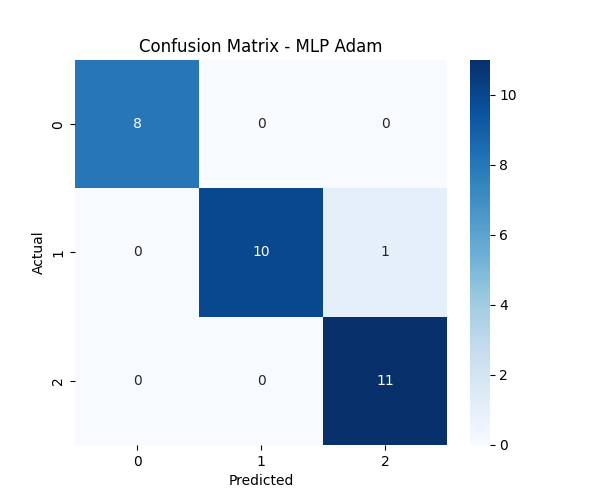
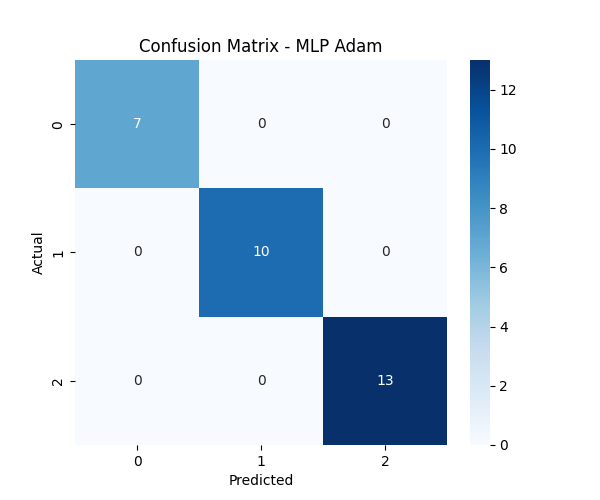
-new model

diff --git a/src/models/MLP_ADAM_batch.py b/src/models/MLP_ADAM_batch.py
@@ -1,0 +1,118 @@
+import numpy as np
+
+def train(X_train, y_train, X_test, y_test, epochs=230, learning_rate=0.01, batch_size=32):
+    def relu(x):
+        return np.maximum(0, x)
+
+    def relu_derivative(x):
+        return (x > 0).astype(float)
+
+    def softmax(x):
+        exp_x = np.exp(x - np.max(x, axis=1, keepdims=True))
+        return exp_x / np.sum(exp_x, axis=1, keepdims=True)
+
+    def softmax_derivative(output, y):
+        return output - y
+
+    input_size = X_train.shape[1]
+    hidden_size_1 = 10
+    hidden_size_2 = 8
+    output_size = y_train.shape[1]
+
+    np.random.seed(42)
+
+    # Initialize weights and biases with small random values
+    W1 = np.random.randn(input_size, hidden_size_1) * 0.1
+    b1 = np.zeros((1, hidden_size_1))
+    W2 = np.random.randn(hidden_size_1, hidden_size_2) * 0.1
+    b2 = np.zeros((1, hidden_size_2))
+    W3 = np.random.randn(hidden_size_2, output_size) * 0.1
+    b3 = np.zeros((1, output_size))
+
+    beta1, beta2, epsilon = 0.9, 0.999, 1e-8  # Hyperparameters for Adam
+
+    # Initialize moment estimates for Adam (first moment, second moment)
+    mW1, vW1, mb1, vb1 = np.zeros_like(W1), np.zeros_like(W1), np.zeros_like(b1), np.zeros_like(b1)
+    mW2, vW2, mb2, vb2 = np.zeros_like(W2), np.zeros_like(W2), np.zeros_like(b2), np.zeros_like(b2)
+    mW3, vW3, mb3, vb3 = np.zeros_like(W3), np.zeros_like(W3), np.zeros_like(b3), np.zeros_like(b3)
+
+    def compute_loss(y_pred, y_true):
+        m = y_true.shape[0]
+        return -np.sum(y_true * np.log(y_pred + 1e-8)) / m
+
+    loss_history, accuracy_history = [], []
+
+    for epoch in range(epochs):
+        # Shuffle data before each epoch
+        indices = np.arange(X_train.shape[0])
+        np.random.shuffle(indices)
+        X_train, y_train = X_train[indices], y_train[indices]
+
+        for i in range(0, X_train.shape[0], batch_size):
+            X_batch = X_train[i:i+batch_size]
+            y_batch = y_train[i:i+batch_size]
+
+            # Forward pass
+            Z1 = np.dot(X_batch, W1) + b1
+            A1 = relu(Z1)
+            Z2 = np.dot(A1, W2) + b2
+            A2 = relu(Z2)
+            Z3 = np.dot(A2, W3) + b3
+            A3 = softmax(Z3)
+
+            # Compute loss
+            loss = compute_loss(A3, y_batch)
+
+            # Backpropagation
+            dZ3 = softmax_derivative(A3, y_batch)
+            dW3 = np.dot(A2.T, dZ3)
+            db3 = np.sum(dZ3, axis=0, keepdims=True)
+
+            dZ2 = np.dot(dZ3, W3.T) * relu_derivative(Z2)
+            dW2 = np.dot(A1.T, dZ2)
+            db2 = np.sum(dZ2, axis=0, keepdims=True)
+
+            dZ1 = np.dot(dZ2, W2.T) * relu_derivative(Z1)
+            dW1 = np.dot(X_batch.T, dZ1)
+            db1 = np.sum(dZ1, axis=0, keepdims=True)
+
+            # Adam optimizer updates
+            for param, dparam, m, v in zip([W1, W2, W3, b1, b2, b3],
+                                           [dW1, dW2, dW3, db1, db2, db3],
+                                           [mW1, mW2, mW3, mb1, mb2, mb3],
+                                           [vW1, vW2, vW3, vb1, vb2, vb3]):
+                m = beta1 * m + (1 - beta1) * dparam
+                v = beta2 * v + (1 - beta2) * (dparam ** 2)
+                m_hat = m / (1 - beta1 ** (epoch + 1))
+                v_hat = v / (1 - beta2 ** (epoch + 1))
+                param -= learning_rate * m_hat / (np.sqrt(v_hat) + epsilon)
+
+        # Compute training accuracy at the end of the epoch
+        Z1_train = np.dot(X_train, W1) + b1
+        A1_train = relu(Z1_train)
+        Z2_train = np.dot(A1_train, W2) + b2
+        A2_train = relu(Z2_train)
+        Z3_train = np.dot(A2_train, W3) + b3
+        A3_train = softmax(Z3_train)
+
+        predictions_train = np.argmax(A3_train, axis=1)
+        y_train_classes = np.argmax(y_train, axis=1)
+        accuracy_train = np.mean(predictions_train == y_train_classes)
+
+        loss_history.append(loss)
+        accuracy_history.append(accuracy_train)
+
+    # Forward pass on the test set
+    Z1_test = np.dot(X_test, W1) + b1
+    A1_test = relu(Z1_test)
+    Z2_test = np.dot(A1_test, W2) + b2
+    A2_test = relu(Z2_test)
+    Z3_test = np.dot(A2_test, W3) + b3
+    A3_test = softmax(Z3_test)
+
+    # Compute predictions and accuracy
+    predictions = np.argmax(A3_test, axis=1)
+    y_test_classes = np.argmax(y_test, axis=1)
+    accuracy = np.mean(predictions == y_test_classes)
+        
+    return loss_history, accuracy_history, predictions, y_test_classes, accuracy

diff --git a/src/main.py b/src/main.py
@@ -8,6 +8,7 @@ from src.models.MLP_L2 import train as train_MLP_L2
 from src.models.MLP_ADAM import train as train_MLP_ADAM
 from src.models.MLP_ADAM_L2 import train as train_MLP_ADAM_L2
 from src.models.MLP_tf import train as train_MLP_tf
+from src.models.MLP_ADAM_batch import train as train_MLP_ADAM_batch
 
 from src.visualization.explore_data import analyze_data
 from src.visualization.analyze_training_results import analyze_training_results
@@ -20,11 +21,13 @@ def main():
         "MLP Base": train_MLP_base,
         "MLP L2": train_MLP_L2,
         "MLP Adam": train_MLP_ADAM,
-        "MLP Adam + L2": train_MLP_ADAM_L2
+        "MLP Adam + L2": train_MLP_ADAM_L2,
+        "MLP Adam Batch": train_MLP_ADAM_batch,
+        "MLP Tensorflow": train_MLP_tf
     }
 
     for model_name, model_func in models.items():
-        loss_history, accuracy_history, y_test_classes, predictions, accuracy = model_func(X_train, y_train, X_test, y_test)
+        loss_history, accuracy_history, y_test_classes, predictions, accuracy = model_func(X_train, y_train, X_test, y_test, learning_rate=0.01)
         results[model_name] = {
             "loss": loss_history,
             "accuracy": accuracy_history,
